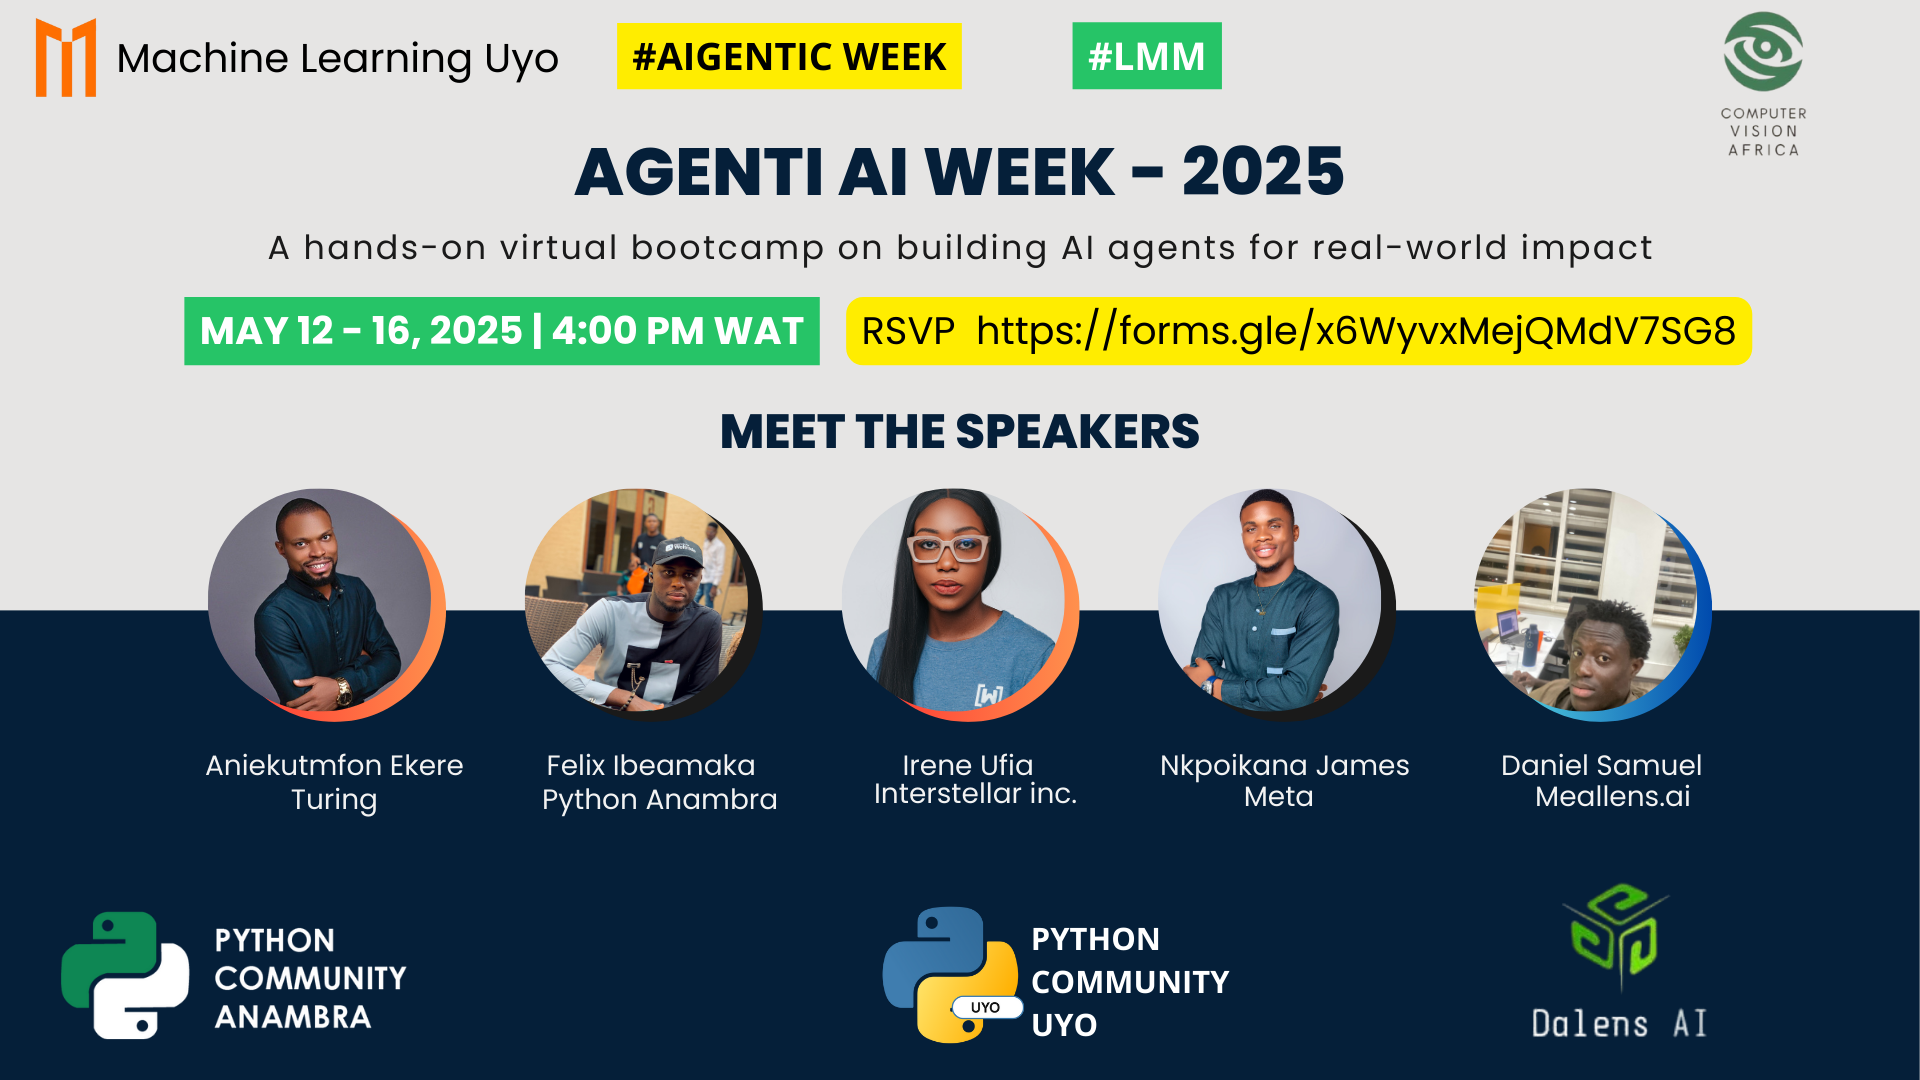
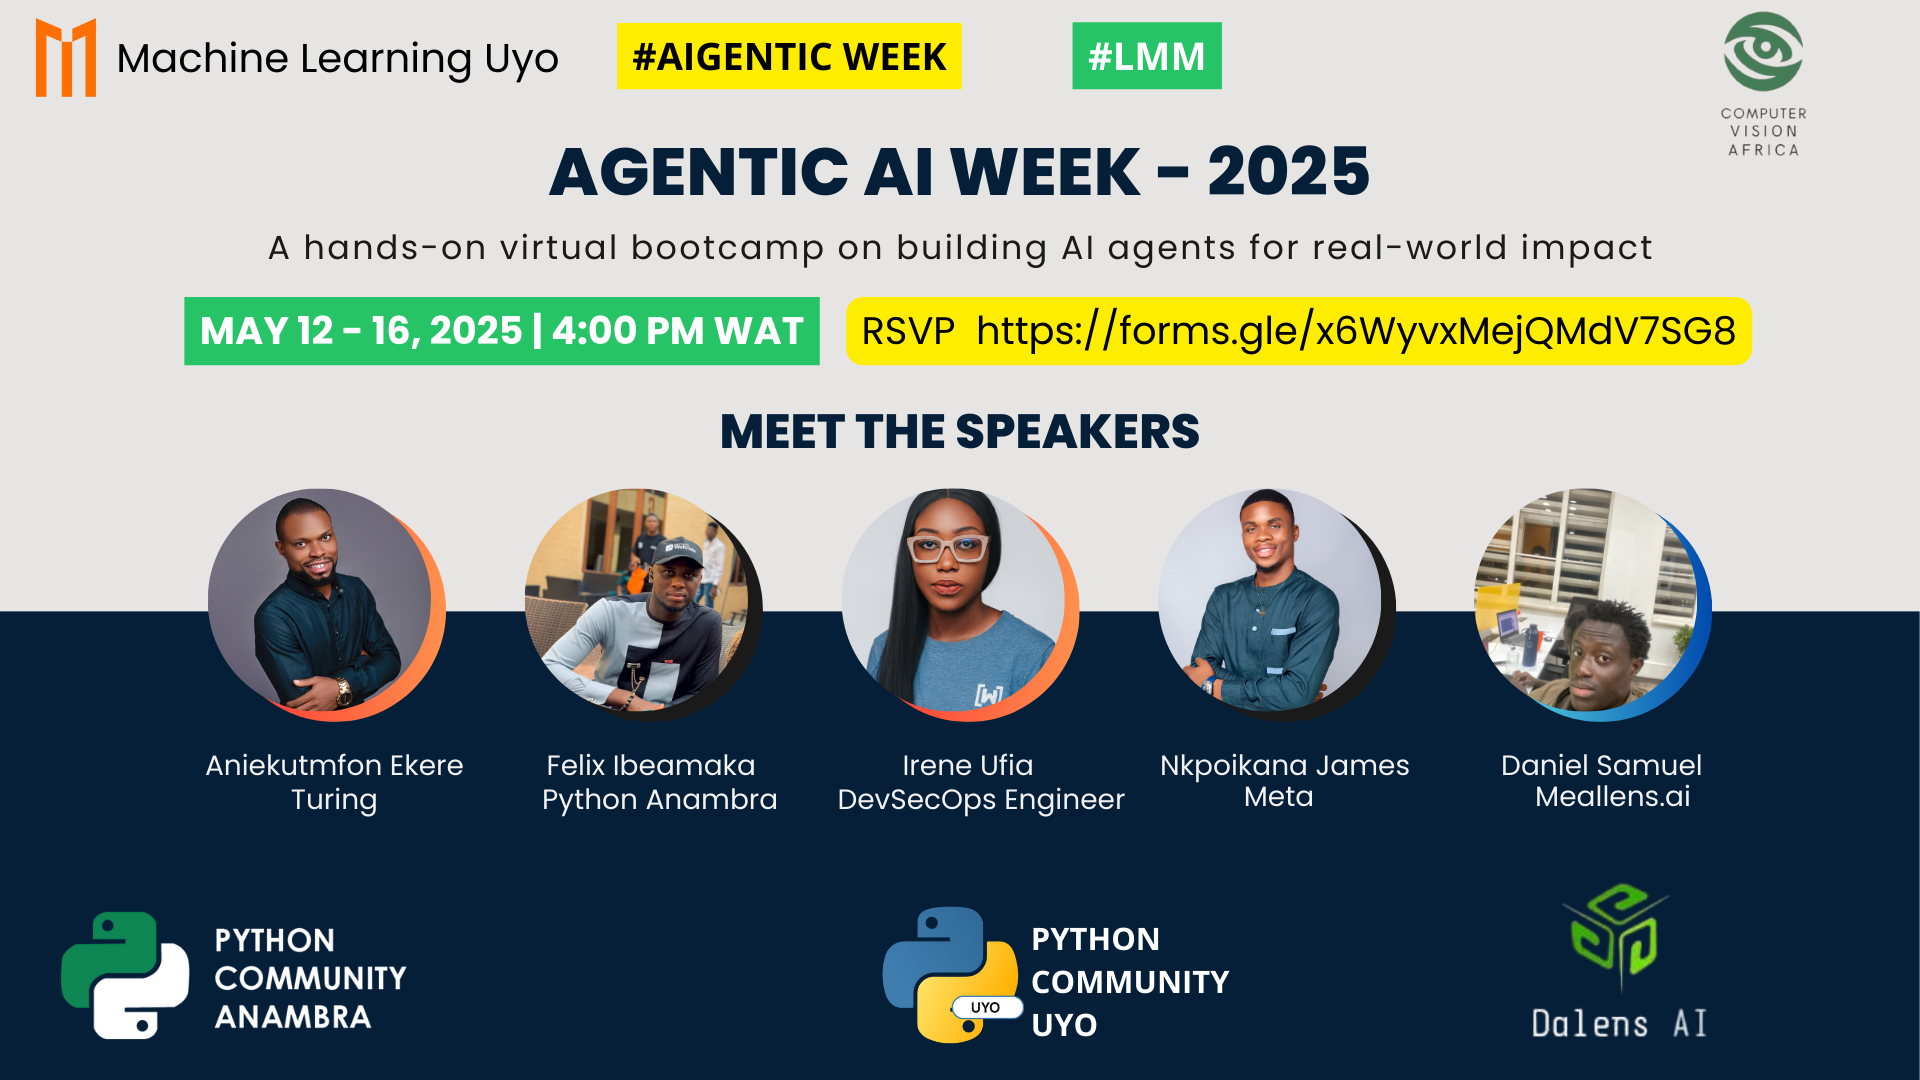
updated the flyers

Changed region(s): [[0.2812, 0.1222, 0.7188, 0.1833], [0.4375, 0.7028, 0.5938, 0.7639]]

diff --git a/README.md b/README.md
@@ -1,7 +1,7 @@
 ![alt text](speakers-ai-agents-week-1.png)
 
 # Machine Learning Uyo - AI Agents Bootcamp 2025
-
+![Views](https://visitor-badge.laobi.icu/badge?page_id=Machine-Learning-Uyo-Community.Agentic-AI-Week)
 ## Building Scalable Agentic AI Systems for Real-World Impact
 
 Welcome to the official GitHub repository for the Machine Learning Uyo AI Agents Bootcamp 2025! This repository serves as the central hub for all materials related to our 5-day intensive virtual hands-on training program. Here, you will find the code, notebooks, essential resources, and practical assignments designed to guide you through the process of building scalable AI agents.
